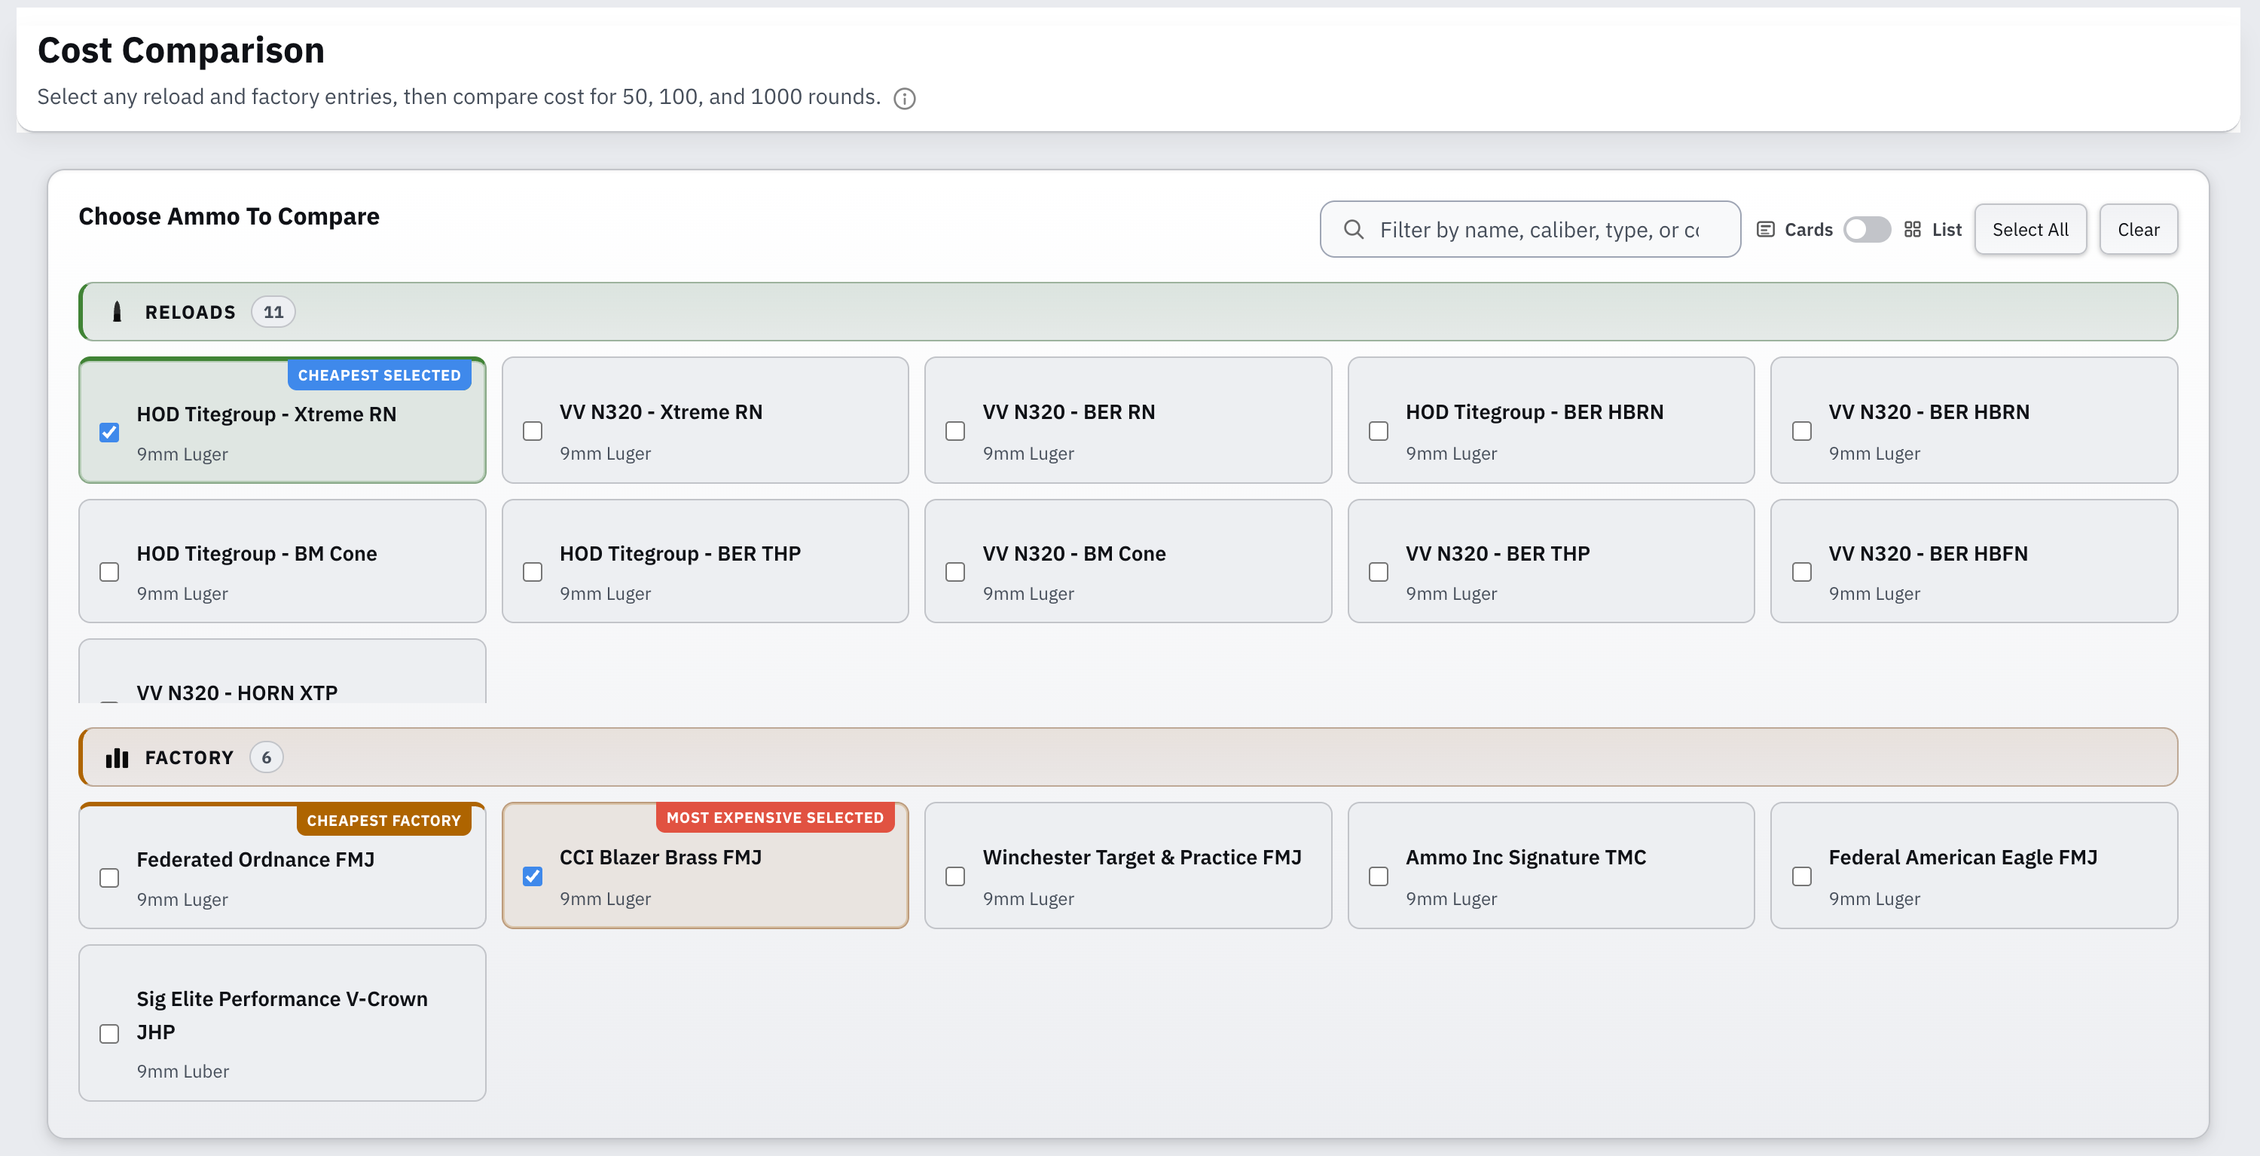
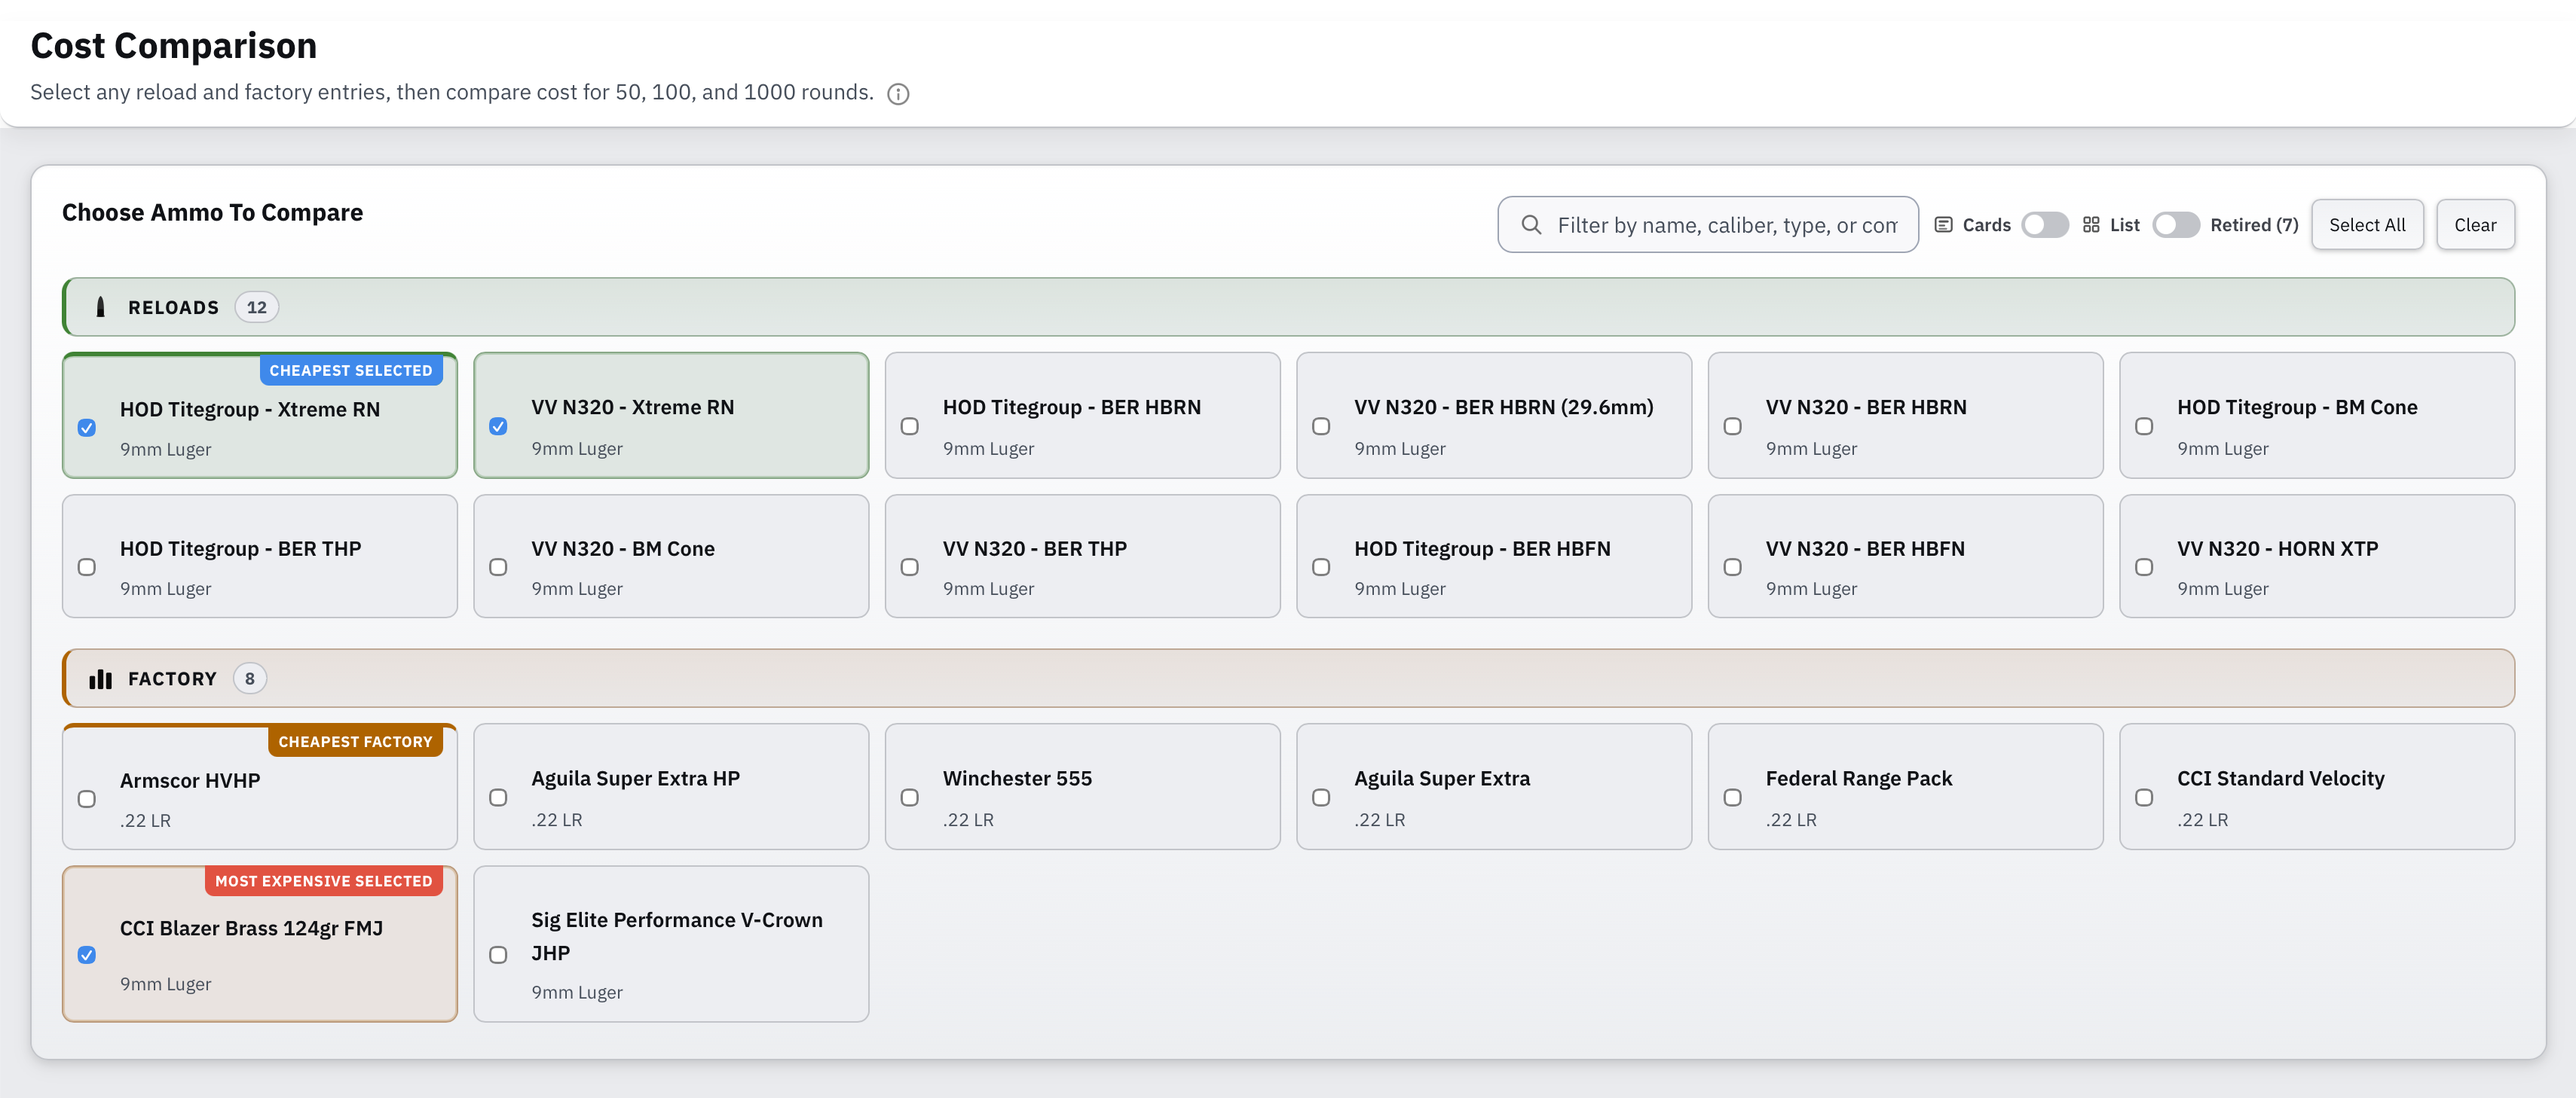
Updates for release 2.17.8

diff --git a/README.md b/README.md
@@ -1,4 +1,4 @@
-# Reloading Tracker 2.17.1: User Guide
+# Reloading Tracker 2.17.18: User Guide
 
 Reloading Tracker is your complete bench-to-range companion. It starts as a production log: define your loads, record every pressing session with a unique lot number, and print a label for every box on your shelf.
 
@@ -7,7 +7,7 @@ It grows with you from there. Keep one inventory of your components. Work up new
 If you also care about costs, the app covers that too. Compare your reloads with factory ammunition, track how close you are to paying off your equipment, and see a side-by-side cost breakdown for any mix of loads. This part is optional; plenty of reloaders just want the log and the data.
 
 
-> **DOWNLOAD:** A desktop version is available from the releases page: [**latest version**](https://github.com/fmalpartida/reloading-cost-calculator/releases/tag/v2.17.1). All previous versions are available [here](https://github.com/fmalpartida/reloading-cost-calculator/releases).
+> **DOWNLOAD:** A desktop version is available from the releases page: [**latest version**](https://github.com/fmalpartida/reloading-cost-calculator/releases/tag/v2.17.18). All previous versions are available [here](https://github.com/fmalpartida/reloading-cost-calculator/releases).
 
 
 Want to try it out first?
@@ -270,9 +270,19 @@ Each ammo card and table row has these actions in its top-right corner:
 
 | Button | Action |
 |--------|--------|
+| 📓 Log to Journal | Reloads only. Opens a short dialog to log a pressing session. See below. |
+| 🎯 Log to Range Log | Factory ammo only. Opens a short dialog to log rounds fired. See below. |
 | ✏ Edit | Opens the entry in the Editor tab |
 | 🖨 Print | For reloads, lets you print a label or the data sheet. Factory ammo opens its data sheet straight away. |
 | ⋯ More | **Duplicate** (useful for variants of the same load), **Set to** another status, and **Delete**. |
+
+**Logging from My Ammo**
+
+Click 📓 **Log to Journal** on a reload to record a pressing session without leaving My Ammo. Enter the **Rounds pressed** and pick the **Brass** (or **Hull** for shotshells). The dialog shows the lot number it will use. The lot is dated today and appears in the Journal like any other.
+
+Click 🎯 **Log to Range Log** on factory ammo to record rounds fired today. Enter the **Rounds fired**, then check the **Firearm** and **Distance**. Both start from the last session that used this ammo. The firearm list shows only firearms of the same caliber. If you track stock for it, the dialog shows how many rounds are left and won't log more.
+
+The buttons don't appear on retired or draft ammo.
 
 Delete asks you to confirm and names the load. If the load has Journal history, the dialog also offers **Retire instead**, which hides it and keeps that history.
 
@@ -282,7 +292,7 @@ Use the **Search** box to filter cards by name, caliber, type, or component name
 
 When the **Reloads** or **Factory** section holds more than one caliber, a **caliber filter** appears in its header. Each section filters on its own: you can show only your 6.5 Creedmoor reloads and still see all factory ammo. The filter works with search and the retired toggle, and the count at the top follows it. If nothing is left to show, click **Clear Filters** to reset the search and both filters.
 
-Switch between **Cards** and **Table** with the buttons next to the search box. Table view is denser and easier to scan when you have many entries. In card view, the sort menu picks both the field and the direction, for example **Price: low to high**. In table view, click a column header to sort.
+Switch between **Cards** and **Table** with the buttons next to the search box. Table view is denser and easier to scan when you have many entries. Long bullet, powder and primer names end in **…**; hover to see the full name. The action buttons stay at the right edge while the table scrolls sideways. In card view, the sort menu picks both the field and the direction, for example **Price: low to high**. In table view, click a column header to sort.
 
 When any ammo is at or below its alert, or out of stock, a **Low stock** tag appears under the title. Click it to see only what you need to press or buy.
 
@@ -500,7 +510,7 @@ Like My Ammo, My Components has **Cards** and **Table** views. Click the small a
 
 Click **Add Component** in the top-right corner, or the small **+** in a section header to start with that type selected.
 
-The form has labeled sections: **Basics** for every type, **Specs** and **Pricing** for bullets, and **Consistency & Fit** and **Annealing** for brass. A **Stock** section comes last for all types.
+The form has labeled sections: **Specs** for bullets, wads, shot and slugs, **Basics** for brass and hulls, and **Consistency & Fit** and **Annealing** for brass. Every type ends with **Pricing**, **Stock** and **Notes**, in that order, so the price always sits just above the stock.
 
 **Component Type**  
 Pick one of the eight types at the top of the form. The type can't be changed after saving; to use a different type, create a new component and delete the old one.
@@ -532,21 +542,23 @@ A hull, wad, or slug with a gauge set only appears in the Editor for loads of th
 **OAL (Overall Length)** *(bullet only, optional)*  
 The bullet's overall length, with an **in** / **mm** unit next to it. The unit starts at your Imperial/Metric setting. Switching it converts the number, e.g. *1.169 in* becomes *29.6926 mm*.
 
+**OAL and Case Capacity** *(brass only, optional)*  
+- **OAL (Overall Length)**: the case length, with an **in** / **mm** unit. Switching the unit converts the number, as for bullets.
+- **Case Capacity (water)**: how much water the case holds, in **gr** or **g**. Switching the unit converts the number, e.g. *56.2 gr* becomes *3.642 g*.
+
 **Times Reloaded** *(brass only)*  
 How many times each case can be reloaded before you replace it. The brass cost is spread across that many rounds.
 
 **Consistency & Fit** *(brass only, optional)*  
 Fields for precision reloading, where case-to-case consistency matters:
 - **Case Weight (gr)**: average case weight, useful for checking a lot's consistency or comparing a new batch.
+- **Weighed Cases (gr)**: type or paste the weight of each case you weighed, separated by spaces or commas. The form shows the count, average, lightest to heaviest, spread and SD as you type, and the average fills **Case Weight**.
 - **Dedicated Firearm**: pick one of your firearms. Use it when brass is fire-formed to one chamber (common with tight-neck or custom chambers) and shouldn't be mixed with brass for another rifle in the same caliber.
 - **Shoulder Bump**: the shoulder bump you aim for when full-length sizing this brass, e.g. *0.002*. It has the same **in** / **mm** unit as OAL, and switching converts the number.
 
 **Annealing** *(brass only, optional)*  
 - **Annealer**: the machine or method used, e.g. *AMP Press*, *torch*.
 - **Annealer Settings**: free text for your process, e.g. *PID 4, 5.5s dwell*.
-
-**Notes**  
-Optional free-text field for suppliers or any other reference.
 
 **Stock on hand** *(optional)*  
 How much you have now. The unit depends on the type:
@@ -560,6 +572,9 @@ A low-stock threshold, in the same unit as **Stock on hand**. At or below it, th
 
 **Lot #** *(optional)*  
 The manufacturer's lot code for the batch you have on hand, e.g. *VG-2291*. New Journal entries record it automatically (see [5.1](#51-logging-a-session)), so update it when you open a new jug of powder or box of primers.
+
+**Notes**  
+Optional free-text field for suppliers or any other reference.
 
 Click **Save**. The card appears in its section right away.
 
@@ -609,7 +624,9 @@ In **Table view**, click the **Name**, **Price**, or **Stock** column header ins
 
 **Photo thumbnails**
 
-Components with a photo (see [3.1](#31-adding-a-component)) show it as a thumbnail in place of the type icon on the card, or in the table's Photo column. Hover over it, or tab to it and press Enter, to see the name, type, price, stock, lot number, and key specs.
+Components with a photo (see [3.1](#31-adding-a-component)) show it as a thumbnail in place of the type icon on the card, or in the table's Photo column. Components without a photo show their type icon there instead. Hover over the thumbnail or icon, or tab to it and press Enter, to see the name, type, price, stock, lot number, and key specs.
+
+For brass, the popup also shows the OAL, case capacity, annealer and its settings. With two or more weighed cases, it shows the weight range, spread and SD.
 
 ![Screenshot: My Components card and table showing a photo thumbnail and hover popup](./images/inventory-photo-popup.png)
 
@@ -788,11 +805,16 @@ Each entry row has action buttons on the right:
 | Button | Action |
 |--------|--------|
 | ☆ Star | Marks the entry as a reference lot (starred entries show a coloured accent) |
+| 🎯 Log to Range Log | Opens a short dialog to log rounds fired from this lot today. Shown on lots with rounds left. |
 | ✏ Edit | Opens the entry for editing; the lot number is fixed and cannot be changed |
 | 🖨 Print | Opens the label print dialog pre-filled with the lot number and quantity |
 | 📦 Archive | Moves the entry out of the main list. Nothing is lost, and you can restore it any time. |
 | ⋯ More | **Duplicate** copies the entry with the next lot number and the same component lots, handy for pressing another batch at the same settings. **Delete** removes it for good. |
 | 📦 Deduct from stock | Shown only when the load has a linked component with stock set. See below. |
+
+**Logging a lot to the Range Log**
+
+Click 🎯 **Log to Range Log** on a lot to record rounds fired today. Enter the **Rounds fired**, then check the **Firearm** and **Distance**. Both start from the last session that used this load. The firearm list shows only firearms of the same caliber. You can't log more rounds than the lot has left.
 
 **Deducting inventory stock from a journal entry**
 
@@ -878,6 +900,8 @@ The **Range Log** is where you record what happens after the ammo leaves the ben
 ![Screenshot: Range Log tab showing session list with expanded session](./images/range-log-overview.png)
 
 ### 6.1 Logging a Range Session
+
+For a quick entry with one load, use 🎯 **Log to Range Log** on factory ammo in My Ammo (see [2.3](#23-managing-ammo-entries)) or on a lot in the Journal (see [5.2](#52-managing-journal-entries)).
 
 Click **+ Log Session** at the top of the Range Log. Fill in:
 
@@ -1029,12 +1053,12 @@ Click the upload area in the centre (or drag an image onto it) to load your targ
 
 Before placing shots, set the scale so the statistics are in real units:
 
-1. Select **Calibrate** from the mode buttons in the toolbar.
-2. Click the first reference point (e.g. one edge of a known dimension on the target).
-3. Click the second reference point (e.g. the opposite edge).
+1. Choose **Ref** in the toolbar.
+2. Click one end of a known distance on the target (e.g. one edge of a printed grid square).
+3. Click the other end.
 4. In the **Configuration** sidebar, enter the real-world distance between those two points and choose the unit (in / cm / mm).
 
-The app divides the distance in pixels by the real distance to get the scale. All statistics update whenever the calibration changes.
+To adjust a reference point, drag it. With **Ref** chosen, a click moves the closer of the two points. All statistics update whenever the calibration changes.
 
 > **Tip:** Use a printed grid square, a ring of known diameter, or any other feature you can measure. Note the measurement before the session so it's ready when you upload the photo.
 
@@ -1066,7 +1090,7 @@ To move a marker, drag it. This doesn't work while the Pan tool is on, because d
 
 **Placing shots automatically**
 
-**Auto Place** finds the bullet holes for you. It stays disabled until you set Ref A and Ref B.
+**Auto Place** finds the bullet holes for you. It stays disabled until you set the reference points.
 
 1. Calibrate the image and enter the bullet diameter (see [Section 7.1.2](#712-uploading-and-calibrating-the-image)).
 2. Zoom and pan until the shots you want are on screen. Auto Place looks only at what's visible.
@@ -1107,7 +1131,7 @@ To remove the point of aim, click **Clear POA**.
 |-------------|----------|
 | **+ Impact** | Click on the canvas to place a new numbered impact |
 | **Set POA** | Click to place or move the point of aim marker |
-| **Calibrate** | Click two reference points to set the calibration baseline |
+| **Ref** | Click to place the two reference points for calibration |
 | **Pan / Zoom** | Drag to pan the canvas; use the zoom buttons or scroll wheel to zoom in and out |
 
 Next to the modes is the **Auto Place** button, described above. The toolbar also has **Zoom In**, **Zoom Out**, and **Fit**, and a **Print** button (see [Section 7.1.8](#718-printing-a-target)). Buttons are grouped: modes on one band, view tools (pan, zoom, crop, rotate) on another, and Export, Print, and Save on the right.
@@ -1433,6 +1457,8 @@ The left column lists your reload and factory entries.
 
 By default, both use **checkboxes**. Check the entries to include in the averages; if none are checked, **all entries of that type are included**. Your selection and round counts are saved.
 
+Retired ammo is hidden from the list. Turn on the **Retired** switch at the top of the panel to see it. Hidden retired ammo still counts in the analysis.
+
 Each entry fits on one line: checkbox, name, and cost per round. In **Rounds** mode a reload shows its name on the first line. Below it you see the rounds you typed, the Journal rounds (the blue **+N**), and the total, then the cost per round. The total cost of those rounds sits on the right, so you can compare loads down the list. Reloads with no rounds are dimmed and show a dash instead of a total. A small thumbnail appears next to the name: the photo of factory ammo, or the photo of a reload's linked bullet (see [3.3](#33-linking-inventory-to-loads)).
 
 Click a load's name to open its details: caliber, COAL/CBTO, and for reloads the powder, bullet, primer, and brass, each with its photo from My Components when it has one (the type icon otherwise). Factory ammo shows its photo. This is the same dialog you get by clicking a load name in the Journal.
@@ -1509,16 +1535,20 @@ If reloading costs more per round than factory, the lines never cross and a warn
 **Selecting entries**  
 Click an entry to select or clear it. Selected reloads are green and factory ammo amber. You can select as many as you like.
 
+Retired ammo is hidden. Turn on the **Retired** switch in the header to show it and include it in the comparison. Hidden retired ammo is left out of the results.
+
 **Reading the comparison**  
 With entries selected, you'll see:
 
 - A **bar chart** of cost per round for every selected entry.
 - A **cost table** with totals for 50, 100, and 1,000 rounds for each entry.
 - A **Difference** section (with at least one reload and one factory entry selected) showing how much cheaper your reload is per round and per 50, 100, and 1,000 rounds.
+- An **Average Reload vs Average Factory, by Caliber** table. For each caliber, it averages the reloads and factory ammo you selected, so reloads are only compared with factory ammo of the same caliber. Calibers you selected that have only reloads or only factory ammo are listed below the table.
 
 Use the **Search** box above the selection list to filter by name, caliber, type, or component.
 
 ![Screenshot: Cost Comparison: bar chart and difference table](./images/cost-comparison.png)
+<!-- IMAGE MAY NEED UPDATING: the average card is now a per-caliber table (2.17.5) -->
 ![Screenshot: Cost Comparison: difference table](./images/cost-break-down.png)
 
 ---
